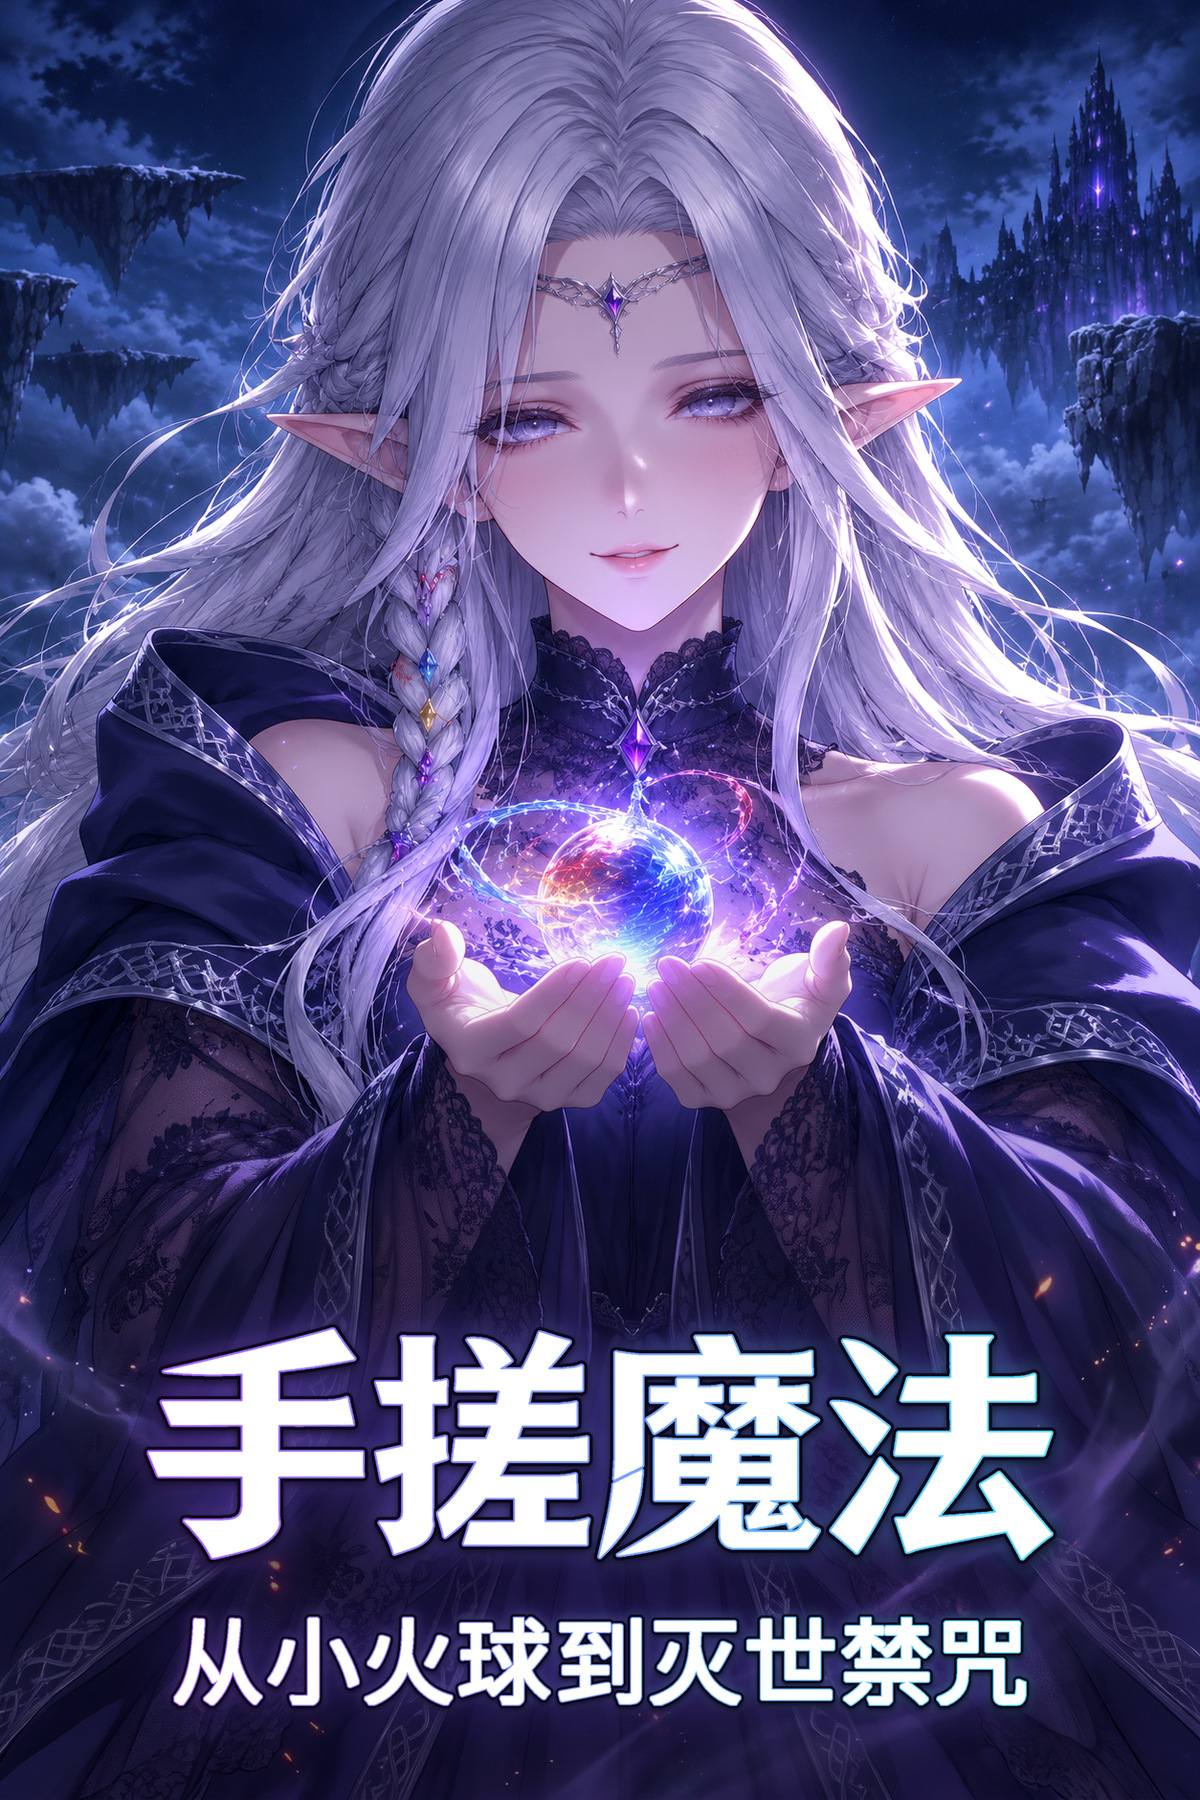
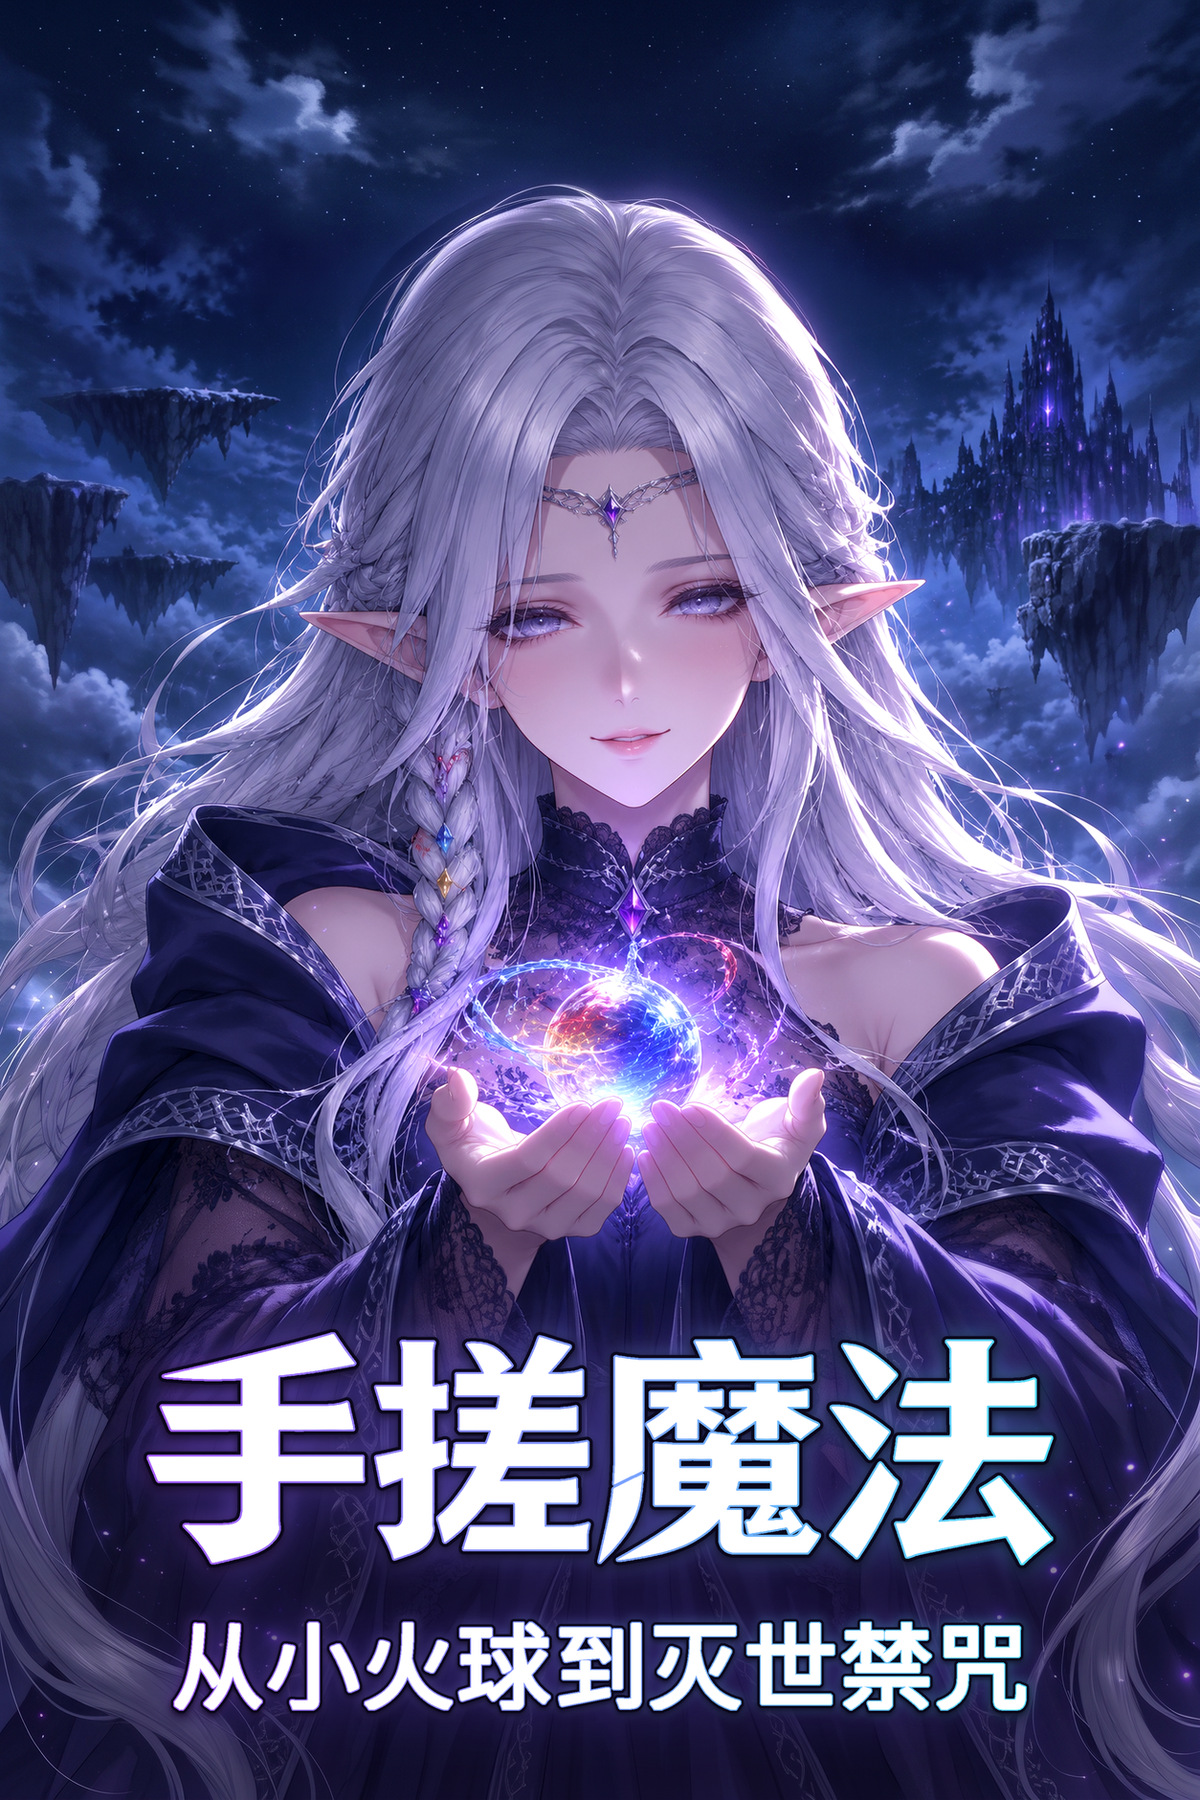
shoucuo review 1108 promo v2 headroom

diff --git a/shoucuo-review-1108-promo/index.html b/shoucuo-review-1108-promo/index.html
@@ -15,9 +15,10 @@ pre{white-space:pre-wrap;font-family:inherit;font-size:14px;line-height:1.7;marg
 </style></head><body><main>
 <h1>手搓魔法 · 宣传图、方图、电脑版封面换成薇丝塔 + 文案缩短</h1>
 <p class="note">2026-11-08。薇丝塔原图 <code>art-source/1105/keeper.png</code>（1254×1254，游戏里「守泉人的馈赠」那张）。四周的夜空、浮岛和长袍由 Gemini 2K 外扩，然后把<b>原图像素原样贴回</b>，接缝处羽化 90 px：脸、发冠、魔力球和游戏里是同一张，没有放大。字标沿用线上那套切光字标（两行完整标题「手搓魔法 / 从小火球到灭世禁咒」，逐字核对过），图上没有其他文字。虚线是 16:9 中间 4:3 的安全区。点图看原图。</p>
+<p class="note"><b>第 2 版（按「头顶被切了，拉远一点」）</b>：镜头拉远，四张图都露出完整的头顶，头发上方留一段星空；原图头顶缺的那截头发由 Gemini 补画，接缝在原图上沿，羽化 90 px，放大看是一整片头发。脸、魔力球、双手仍是原图像素。B、方图、封面里她缩到 0.8–0.9 倍（缩小，不是放大），字标在双手下方，不压脸和球；字标后的暗影收窄了，不再盖住手。</p>
 <p class="note"><b>这些图还没写进草稿</b>，等你确认后再存进去并提审。图标（A · 原构图）和下面的文案已经存进草稿 V-20261107-4。</p>
 
-<h2>1. 横版宣传图 16:9（2229×1254，下限 1920×1080）</h2>
+<h2>1. 横版宣传图 16:9（2560×1440，下限 1920×1080）</h2>
 <div class="tri">
  <div class="card"><h3>现在（线上）</h3><div class="safe"><img src="img/cur_wide.jpg"></div><p class="note">黑脸法师，和截图、新图标不是一个画风。</p></div>
  <div class="card"><h3>A · 人物在右、字标在左<span class="tag">推荐</span></h3><a href="full/promo-16x9-A.jpg"><div class="safe"><img src="img/new_wide_A.jpg"></div></a><p class="note">脸和魔力球都在安全区里，字标压在左边夜空上，不挡人物。</p></div>
@@ -90,4 +91,6 @@ pre{white-space:pre-wrap;font-family:inherit;font-size:14px;line-height:1.7;marg
  <div class="card"><h3>首页推荐语 · 新（21 字）</h3><pre>卡牌肉鸽：一手元素牌，从小火球搓到灭世禁咒</pre></div>
 </div>
 <p class="note">按清单第 0.5 节：简介 ≤350 字、开头几行「· 卖点」并点明「卡牌肉鸽」，不罗列系统，结尾写「原创虚构」；开发者的话两小段、100–150 字，不和简介重复；文案里没有群号、联系方式和链接（玩家群单独填在社群字段）。「48 道法术」按游戏实际数量写（12 系 × 4 级）。</p>
+<h2>附：上一版（头顶被切，已替换）</h2>
+<div class="feeds"><img src="img/v1_new_wide_A.jpg" style="width:320px"><img src="img/v1_new_wide_B.jpg" style="width:320px"><img src="img/v1_new_sq.jpg" style="width:180px"><img src="img/v1_new_cover.jpg" style="width:120px"></div>
 </main></body></html>
